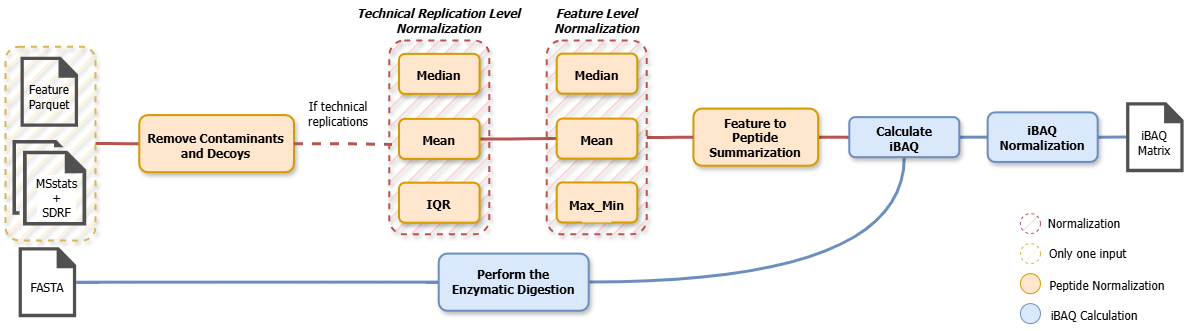
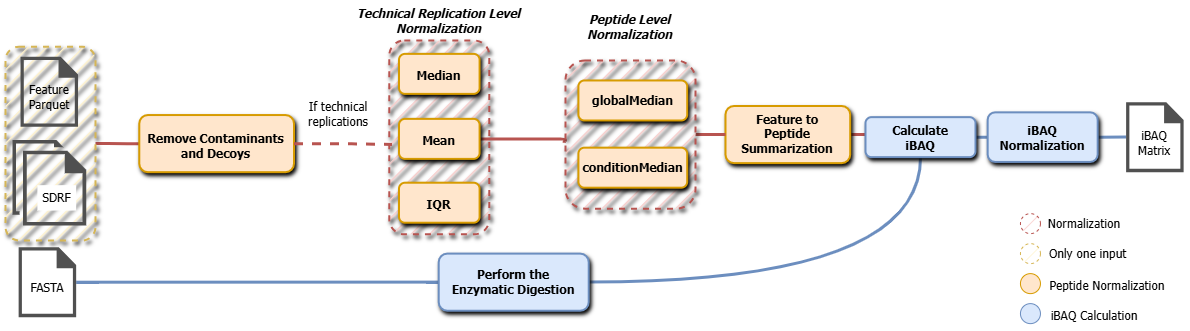
update: doc

Changed region(s): [[0.3109, 0.0302, 0.9328, 0.8459], [0.0, 0.1208, 0.2487, 0.7553], [0.3731, 0.9063, 0.4975, 0.9668]]

diff --git a/commands/features2peptides.py b/commands/features2peptides.py
@@ -45,12 +45,12 @@ from ibaq.peptide_normalization import peptide_normalization
 )
 @click.option(
     "--nmethod",
-    help="Normalization method used to normalize feature intensities for all samples (options: mean, median, iqr, none)",
+    help="Normalization method used to normalize feature intensities for tec (options: mean, median, iqr, none)",
     default="median",
 )
 @click.option(
     "--pnmethod",
-    help="Normalization method used to normalize peptides intensities for all samples (options: mean, median, max, global, max_min, none)",
+    help="Normalization method used to normalize peptides intensities for all samples (options:globalMedian,conditionMedian)",
     default="globalMedian",
 )
 @click.option(

diff --git a/README.md b/README.md
@@ -91,8 +91,7 @@ Options:
                                   (options: mean, median, iqr, none)
   --pnmethod TEXT                 Normalization method used to normalize
                                   peptides intensities for all samples
-                                  (options: mean, median, max, global,
-                                  max_min, none)
+                                  (options: globalMedian,conditionMedian)
   --log2                          Transform to log2 the peptide intensity
                                   values before normalization
   --save_parquet                  Save normalized peptides to parquet
@@ -142,7 +141,7 @@ A peptidoform is a combination of a `PeptideSequence(Modifications) + Charge + B
 
 #### 4. Peptide Intensity Normalization
 
-Finally, the intensity of the peptide was normalized globally by `median`, `mean`, `max`, `sum`, or `max_min`.
+Finally, the intensity of the peptide was normalized globally by `globalMedian`,`conditionMedian`.
 
 
 ### Compute IBAQ
